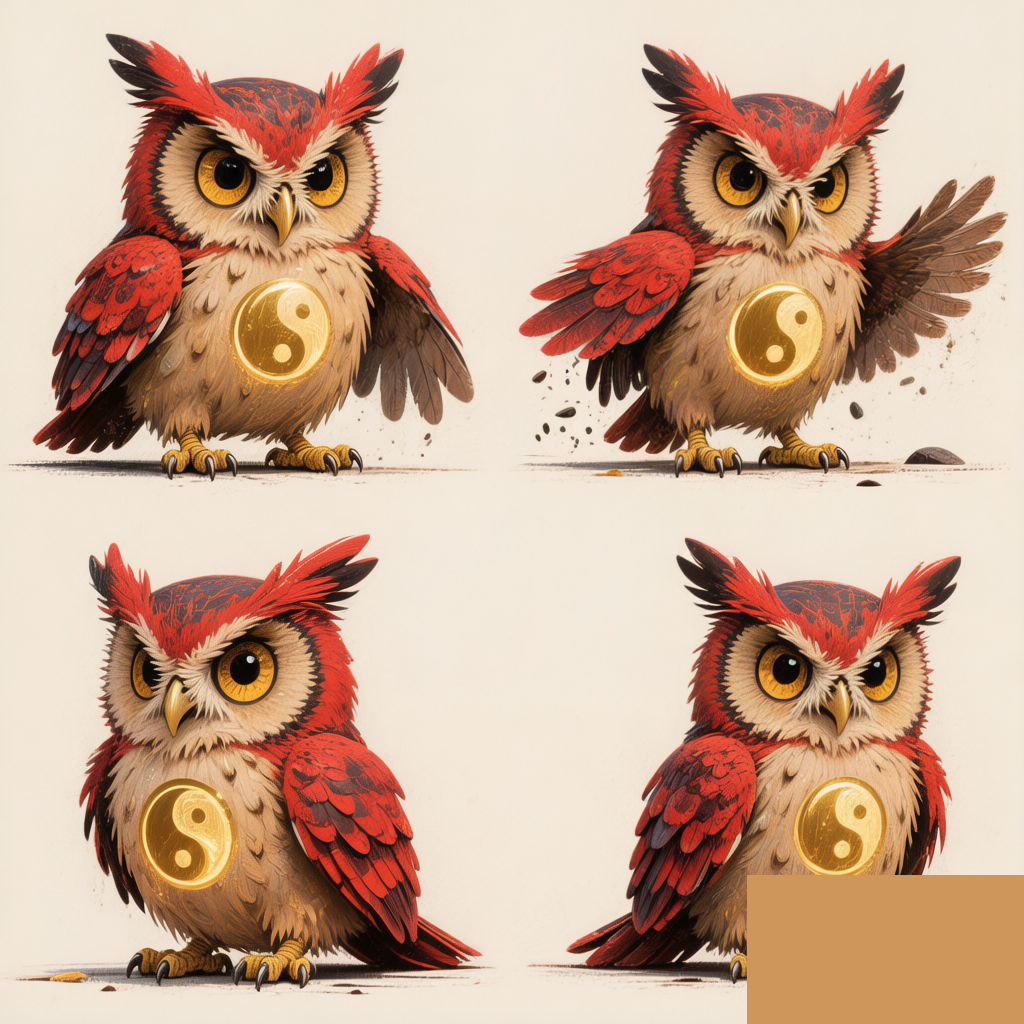
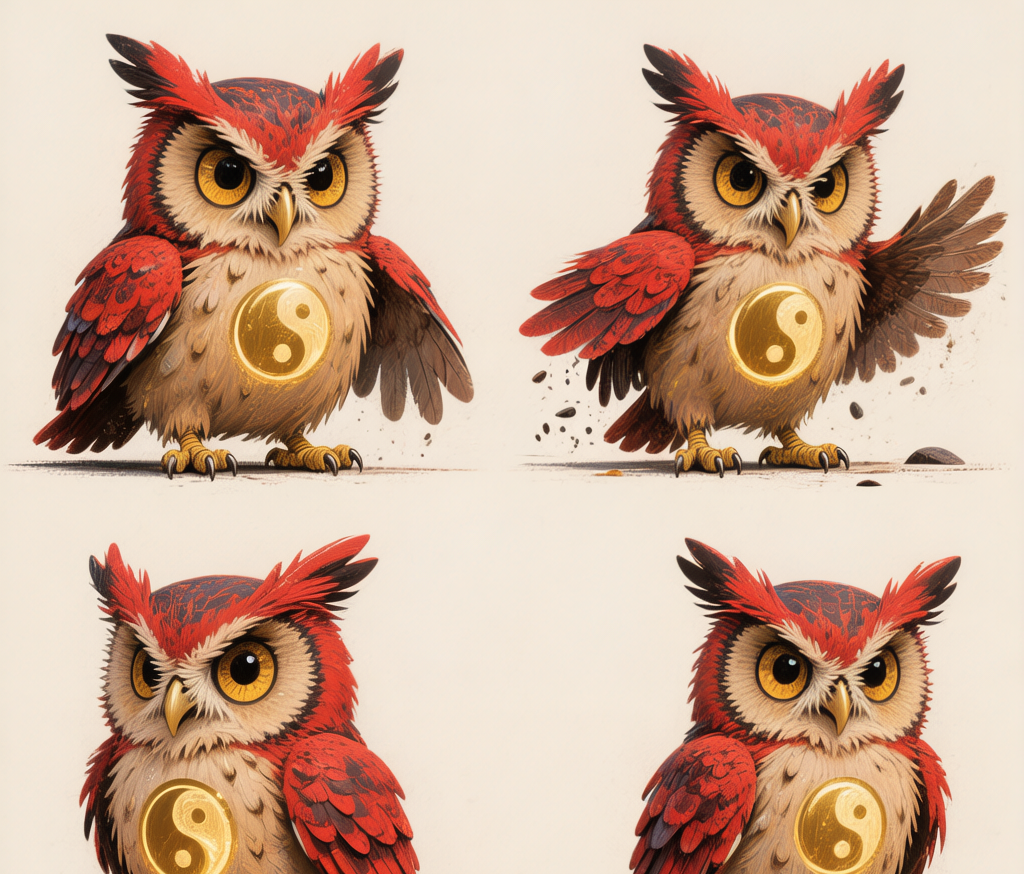
fix: crop bottom shadow from 7 comic images + fix article 03 CSS alignment
Fix A: Crop 150px bottom color-bar from all 7 comic-*-new.png (1024x1024 -> 1024x874)
Fix B: Align 03-qi-is-not-magic.html CSS with article 01 template:
  - Add missing --sage and --card CSS variables
  - Add header centering + h1 decoration rules
  - Add article h1, strong, footer, .back rules
  - Fix body line-height 1.8->1.9, h1 font-size 2rem->1.8rem
  - Fix h2 left-border decoration
  - Fix th white text visibility (--sage now defined)
- Backup originals in images/_backup_before_crop/

diff --git a/posts/03-qi-is-not-magic.html b/posts/03-qi-is-not-magic.html
@@ -22,19 +22,27 @@
     --border: #e8d5c0;
     --subtle: #8a6d54;
     --gold: #c9a84c;
+    --sage: #7a9e7e;
+    --card: #f9f3eb;
   }
   * { margin: 0; padding: 0; box-sizing: border-box; }
   body {
     font-family: Georgia, 'Times New Roman', serif;
     background: var(--bg);
     color: var(--text);
-    line-height: 1.8;
+    line-height: 1.9;
     max-width: 720px;
     margin: 0 auto;
     padding: 2rem 1.5rem;
   }
-  h1 { font-size: 2rem; color: var(--accent); margin-bottom: 0.5rem; line-height: 1.3; }
-  h2 { font-size: 1.4rem; color: var(--accent); margin: 2.5rem 0 0.8rem; }
+  header { text-align: center; padding: 2rem 0 2rem; border-bottom: 1px solid var(--border); margin-bottom: 2.5rem; }
+  header h1 { font-size: 1.8rem; font-weight: normal; letter-spacing: 0.04em; color: var(--accent); }
+  header h1::after { content: ""; display: block; width: 60%; height: 3px; margin: 6px auto 0; background: linear-gradient(90deg, transparent, #b83a2a 20%, #e8a87c 50%, #b83a2a 80%, transparent); border-radius: 2px; opacity: 0.7; }
+  nav { margin-top: 1rem; }
+  nav a { color: var(--subtle); text-decoration: none; margin: 0 0.8rem; font-size: 0.95rem; }
+  nav a:hover { color: var(--accent); }
+  article h1 { font-size: 1.8rem; font-weight: normal; color: var(--accent); margin-bottom: 0.5rem; line-height: 1.4; }
+  h2 { font-size: 1.3rem; font-weight: normal; color: var(--accent); margin: 2.5rem 0 1rem; border-left: 4px solid var(--accent-warm); padding-left: 0.8rem; }
   h3 { font-size: 1.1rem; color: var(--sage); margin: 1.5rem 0 0.5rem; }
   p { margin-bottom: 1.2rem; }
   .meta {
@@ -89,7 +97,7 @@
   }
   th {
     background: var(--sage);
-    color: white;
+    color: #fff;
     font-family: -apple-system, sans-serif;
     font-size: 0.9rem;
     font-weight: 600;
@@ -121,19 +129,16 @@
     left: 1.5rem;
   }
   .ollie-note p { margin-bottom: 0.3rem; }
-  .back {
-    margin-top: 3rem;
-    font-family: -apple-system, sans-serif;
-    font-size: 0.9rem;
-  }
-  .back a { color: var(--accent); text-decoration: none; }
-  .back a:hover { text-decoration: underline; }
   code {
     background: var(--light);
     padding: 0.15em 0.4em;
     border-radius: 3px;
     font-size: 0.9em;
   }
+  strong { color: var(--text); }
+  footer { text-align: center; padding: 2rem 0; color: var(--subtle); font-size: 0.85rem; border-top: 1px solid var(--border); margin-top: 3rem; }
+  footer a { color: var(--accent); text-decoration: none; }
+  .back { display: block; margin: 2rem 0 0; }
 </style>
 <script>
 var _hmt = _hmt || [];
